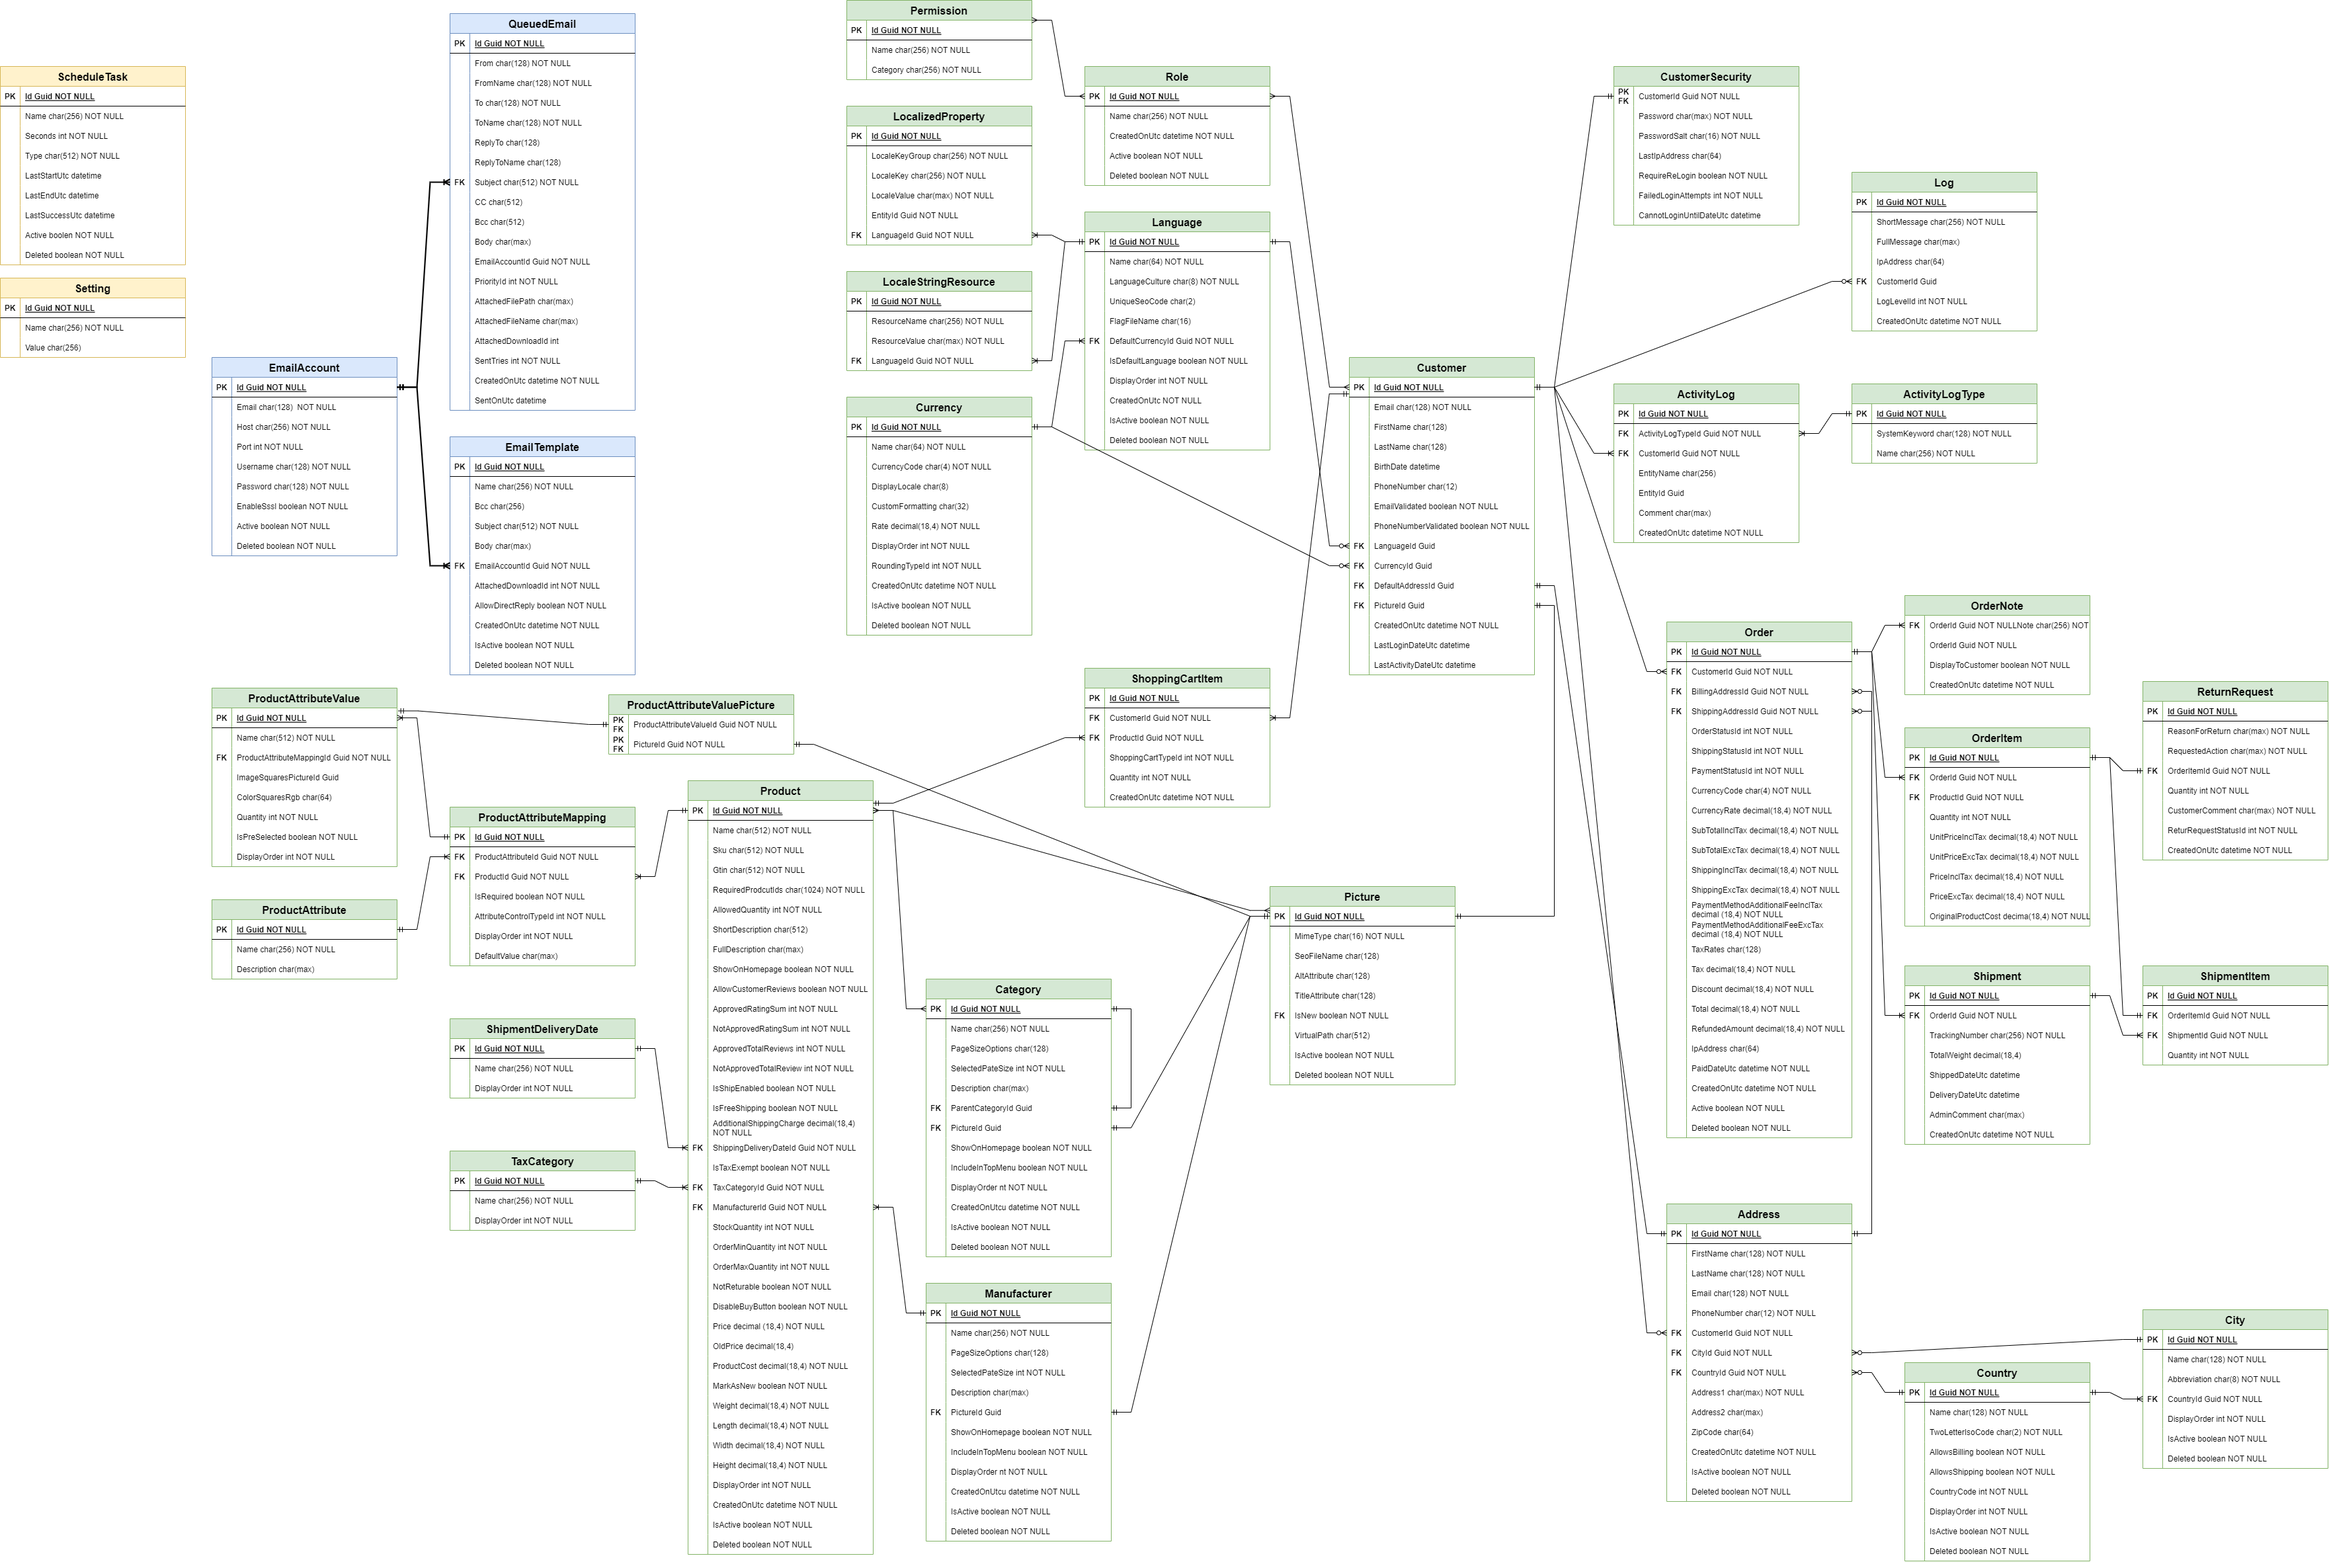
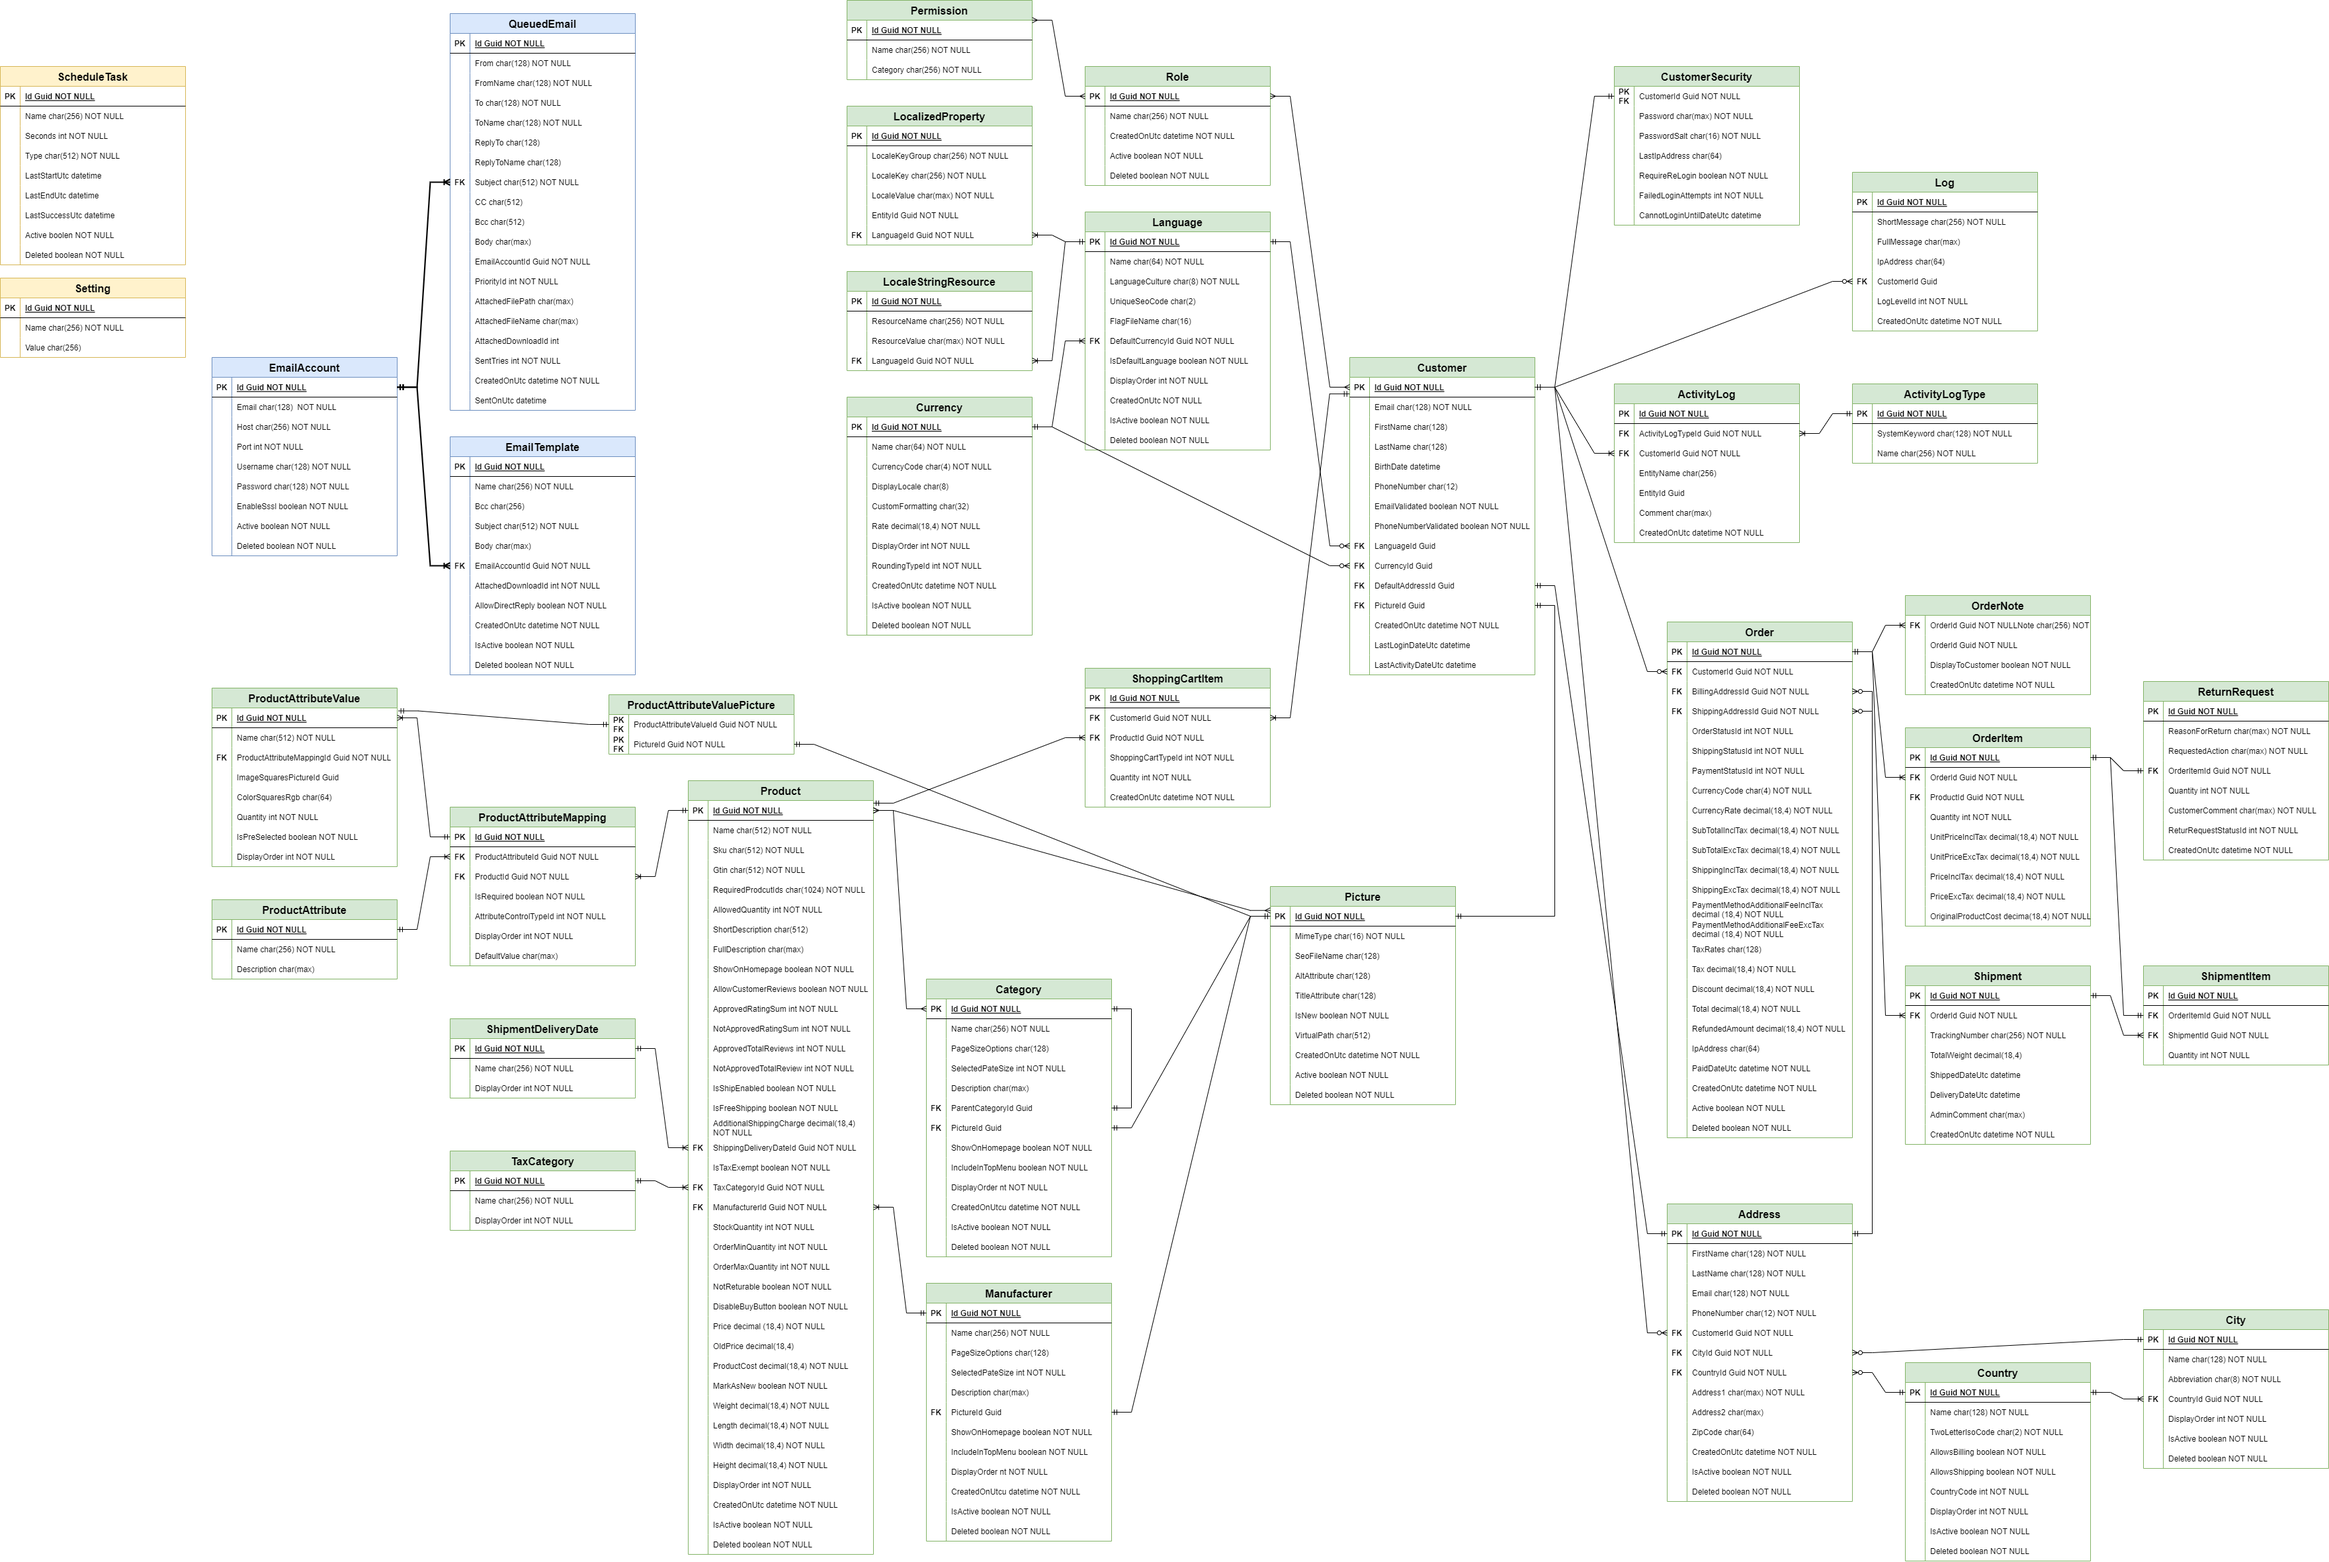
created picture domain

diff --git a/src/eCommerce.Infrastructure/Persistence/Builders/Media/PictureBuilder.cs b/src/eCommerce.Infrastructure/Persistence/Builders/Media/PictureBuilder.cs
@@ -1,0 +1,46 @@
+using eCommerce.Core.Domain.Customers;
+using eCommerce.Core.Domain.Media;
+using Microsoft.EntityFrameworkCore;
+using Microsoft.EntityFrameworkCore.Metadata.Builders;
+
+namespace eCommerce.Infrastructure.Persistence.Builders.Media;
+
+public class PictureBuilder : IEntityTypeConfiguration<Picture>
+{
+    #region Public Methods
+
+    public void Configure(EntityTypeBuilder<Picture> builder)
+    {
+        builder.ToTable("Picture");
+
+        builder.HasKey(p => p.Id);
+
+        builder.Property(q => q.MimeType)
+            .HasMaxLength(16);
+
+        builder.Property(q => q.SeoFilename)
+            .HasMaxLength(128);
+
+        builder.Property(q => q.AltAttribute)
+            .HasMaxLength(128);
+
+        builder.Property(q => q.TitleAttribute)
+            .HasMaxLength(128);
+
+        builder.Property(q => q.VirtualPath)
+            .HasMaxLength(512);
+
+        builder.Property(q => q.CreatedOnUtc)
+            .HasPrecision(6);
+
+        builder.Property(q => q.Active)
+            .HasDefaultValue(true);
+
+        builder.HasOne(q => q.Customer)
+            .WithOne(q => q.Picture)
+            .HasForeignKey<Customer>(q => q.PictureId)
+            .IsRequired();
+    }
+
+    #endregion
+}

diff --git a/src/eCommerce.Core/Domain/Customers/Customer.cs b/src/eCommerce.Core/Domain/Customers/Customer.cs
@@ -2,6 +2,7 @@
 using eCommerce.Core.Domain.Directory;
 using eCommerce.Core.Domain.Localization;
 using eCommerce.Core.Domain.Logging;
+using eCommerce.Core.Domain.Media;
 using eCommerce.Core.Domain.Orders;
 using eCommerce.Core.Domain.Security;
 using eCommerce.Core.Primitives;
@@ -46,6 +47,8 @@ public class Customer : SoftDeletedEntity
 
     public Guid? DefaultAddressId { get; set; }
 
+    public Guid? PictureId { get; set; }
+
     public DateTime CreatedOnUtc { get; set; }
 
     public DateTime? LastLoginDateUtc { get; set; }
@@ -58,7 +61,9 @@ public class Customer : SoftDeletedEntity
 
     public Address? DefaultAddress { get; set; }
 
-    public CustomerSecurity CustomerSecurity { get; private set; }    
+    public CustomerSecurity CustomerSecurity { get; private set; }  
+    
+    public Picture Picture { get; set; }
 
     public ICollection<Log> Logs { get; set; }
 

diff --git a/src/eCommerce.Core/Domain/Media/Picture.cs b/src/eCommerce.Core/Domain/Media/Picture.cs
@@ -1,0 +1,23 @@
+using eCommerce.Core.Domain.Customers;
+using eCommerce.Core.Primitives;
+
+namespace eCommerce.Core.Domain.Media;
+
+public class Picture : SoftDeletedEntity
+{
+    public string MimeType { get; set; }
+
+    public string SeoFilename { get; set; }
+
+    public string AltAttribute { get; set; }
+
+    public string TitleAttribute { get; set; }
+
+    public bool IsNew { get; set; }
+
+    public string VirtualPath { get; set; }
+
+    public DateTime CreatedOnUtc { get; set; }
+
+    public Customer? Customer { get; set; }
+}

diff --git a/src/eCommerce.Infrastructure/Persistence/Builders/Customers/CustomerBuilder.cs b/src/eCommerce.Infrastructure/Persistence/Builders/Customers/CustomerBuilder.cs
@@ -1,5 +1,6 @@
 using eCommerce.Core.Domain.Common;
 using eCommerce.Core.Domain.Customers;
+using eCommerce.Core.Domain.Media;
 using eCommerce.Core.Domain.Security;
 using Microsoft.EntityFrameworkCore;
 using Microsoft.EntityFrameworkCore.Metadata.Builders;
